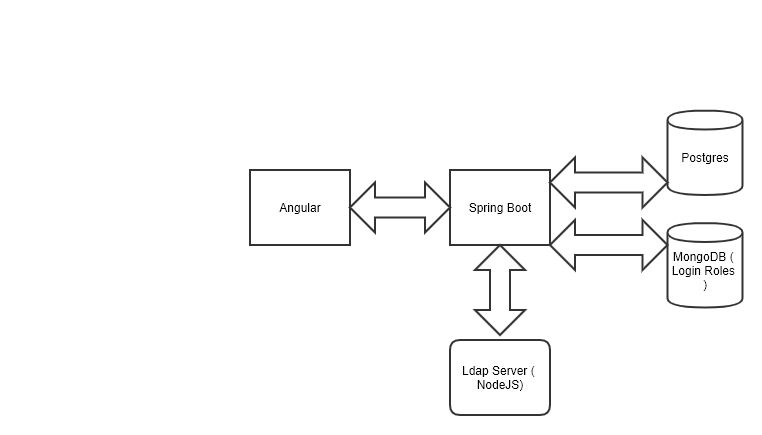
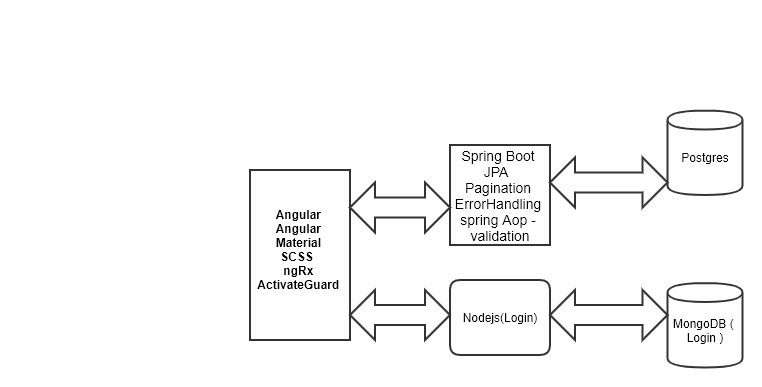
First

diff --git a/application/SpringBoot/MakerChecker/src/main/java/com/astrazeneca/training/makerchecker/validator/CustomerFormValidator.java b/application/SpringBoot/MakerChecker/src/main/java/com/astrazeneca/training/makerchecker/validator/CustomerFormValidator.java
@@ -1,0 +1,32 @@
+package com.astrazeneca.training.makerchecker.validator;
+
+
+import com.astrazeneca.training.makerchecker.common.JSendResponse;
+import com.astrazeneca.training.makerchecker.dto.Applicationdto;
+import org.aspectj.lang.ProceedingJoinPoint;
+import org.aspectj.lang.annotation.Around;
+import org.aspectj.lang.annotation.Aspect;
+import org.springframework.stereotype.Component;
+
+import java.util.HashMap;
+
+@Aspect
+@Component
+public class CustomerFormValidator {
+
+    @Around("execution(* com.astrazeneca.training.makerchecker.controller.CustomerFormController.* (..)) && args(applicationdto,..) ")
+    public Object beforeApplicationSaveExecution(ProceedingJoinPoint pjp, Applicationdto applicationdto) {
+        try {
+            if (applicationdto.getApplicationtype().trim().isEmpty()) {
+                HashMap<String, String> errors = new HashMap<String, String>();
+                errors.put("ApplicationType", "Application Type is Empty");
+                return new JSendResponse(JSendResponse.STATUS_ERROR, errors, "");
+            }
+            Applicationdto rapplicationdto = (Applicationdto) pjp.proceed();
+            return new JSendResponse(JSendResponse.STATUS_SUCCESS,rapplicationdto, "");
+
+        }catch (Throwable e) {
+            return new JSendResponse(JSendResponse.STATUS_FAIL, "", JSendResponse.getStackTrace(e));
+        }
+    };
+}

diff --git a/application/SpringBoot/MakerChecker/src/main/java/com/astrazeneca/training/makerchecker/validator/ValidatorDefinition.java b/application/SpringBoot/MakerChecker/src/main/java/com/astrazeneca/training/makerchecker/validator/ValidatorDefinition.java
@@ -1,0 +1,12 @@
+package com.astrazeneca.training.makerchecker.validator;
+
+import org.aspectj.lang.annotation.Aspect;
+import org.aspectj.lang.annotation.Pointcut;
+
+@Aspect
+public class ValidatorDefinition {
+
+    @Pointcut("execution(* com.astrazeneca.training.makerchecker.controller.*.*(..))")
+    public void ControllerLayer() {
+    }
+}
